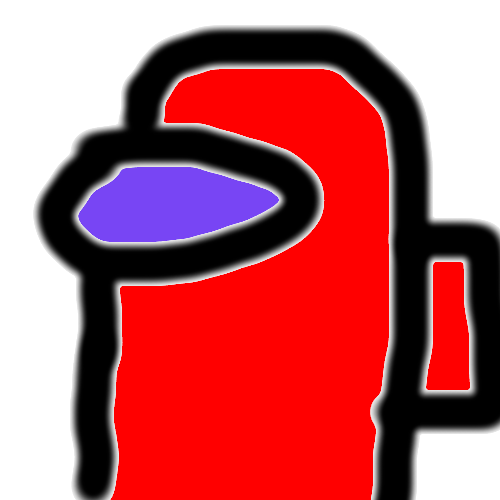
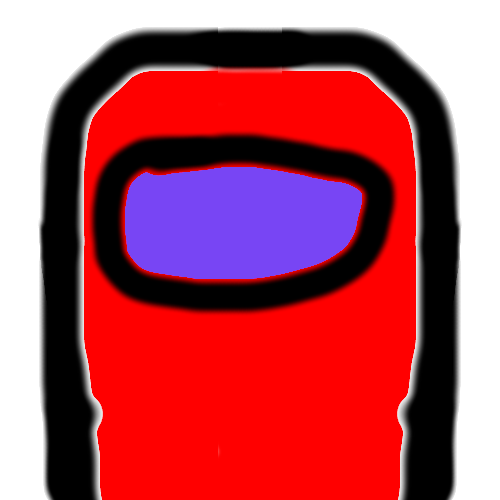
improved single player mode

diff --git a/game/game.py b/game/game.py
@@ -13,6 +13,8 @@ class Game(object):
     obstacle_surf: pygame.Surface = pygame.image.load("./game/assets/obstacle.png")
     customer_surf: pygame.Surface = pygame.image.load("./game/assets/customer.png")
     salesman_surf: pygame.Surface = pygame.image.load("./game/assets/salesman.png")
+    salesman_surf_left: pygame.Surface = pygame.image.load("./game/assets/salesman_left.png")
+    salesman_surf_right: pygame.Surface = pygame.transform.flip(salesman_surf_left, True, False)
     youwin_surf: pygame.Surface = pygame.image.load("./game/assets/youwin.png")
     youlose_surf: pygame.Surface = pygame.image.load("./game/assets/youlose.png")
     screen: pygame.Surface
@@ -28,19 +30,29 @@ class Game(object):
         self.obstacle_surf = pygame.transform.scale(Game.obstacle_surf, cell_size)
         self.customer_surf = pygame.transform.scale(Game.customer_surf, cell_size)
         self.salesman_surf = pygame.transform.scale(Game.salesman_surf, cell_size)
+        self.salesman_surf_left = pygame.transform.scale(Game.salesman_surf_left, cell_size)
+        self.salesman_surf_right = pygame.transform.scale(Game.salesman_surf_right, cell_size)
         self.youwin_surf = pygame.transform.scale(Game.youwin_surf, screen_size)
         self.youlose_surf = pygame.transform.scale(Game.youlose_surf, screen_size)
         self.screen = pygame.display.set_mode(size=screen_size)
 
-    def loop(self):
+    def loop(self, single: bool = True):
         running = True
+        salesman_surf = self.salesman_surf
         while running:
             for event in pygame.event.get():
                 if event.type == pygame.QUIT:
                     running = False
-                if event.type == pygame.TEXTINPUT:
-                    # self.board.control_one(event.text)
-                    pass
+                if single:
+                    if event.type == pygame.TEXTINPUT:
+                        self.board.control_one(event.text)
+                        salesman_surf_dict = {
+                            "a": self.salesman_surf_left,
+                            "w": self.salesman_surf,
+                            "d": self.salesman_surf_right,
+                            "s": self.salesman_surf,
+                        }
+                        salesman_surf = salesman_surf_dict.get(event.text, salesman_surf)
 
             obstacle_indices, customer_indices, salesman_indices = self.board.view()
             win = len(customer_indices) == 0
@@ -69,12 +81,12 @@ class Game(object):
                     doreturn=False,
                 )
                 self.screen.blits(
-                    self.__blits_sequence(salesman_indices, self.salesman_surf),
+                    self.__blits_sequence(salesman_indices, salesman_surf),
                     doreturn=False,
                 )
 
             pygame.display.flip()
-            if state == "":
+            if not single and state == "":
                 self.board.control_auto()
         pygame.quit()
 

diff --git a/main.py b/main.py
@@ -1,7 +1,7 @@
 from board.board import Board
 from game import game
 
-def main():
+def auto():
     shape = (30, 40)
     board = Board(
         shape=shape,
@@ -10,7 +10,23 @@ def main():
         salesman=0.01,
     )
     g = game.Game(board, (20, 20))
-    g.loop()
+    g.loop(single=False)
+
+def single():
+    shape = (15, 20)
+    board = Board(
+        shape=shape,
+        obstacle=0.1,
+        customer=0.05,
+        salesman=0.01,
+    )
+    try:
+        board.obstacle.remove((0, 0))
+    except ValueError as e:
+        print(e)
+    board.salesman = [(0, 0)]
+    g = game.Game(board, (40, 40))
+    g.loop(single=True)
 
 if __name__ == "__main__":
-    main()
+    single()
